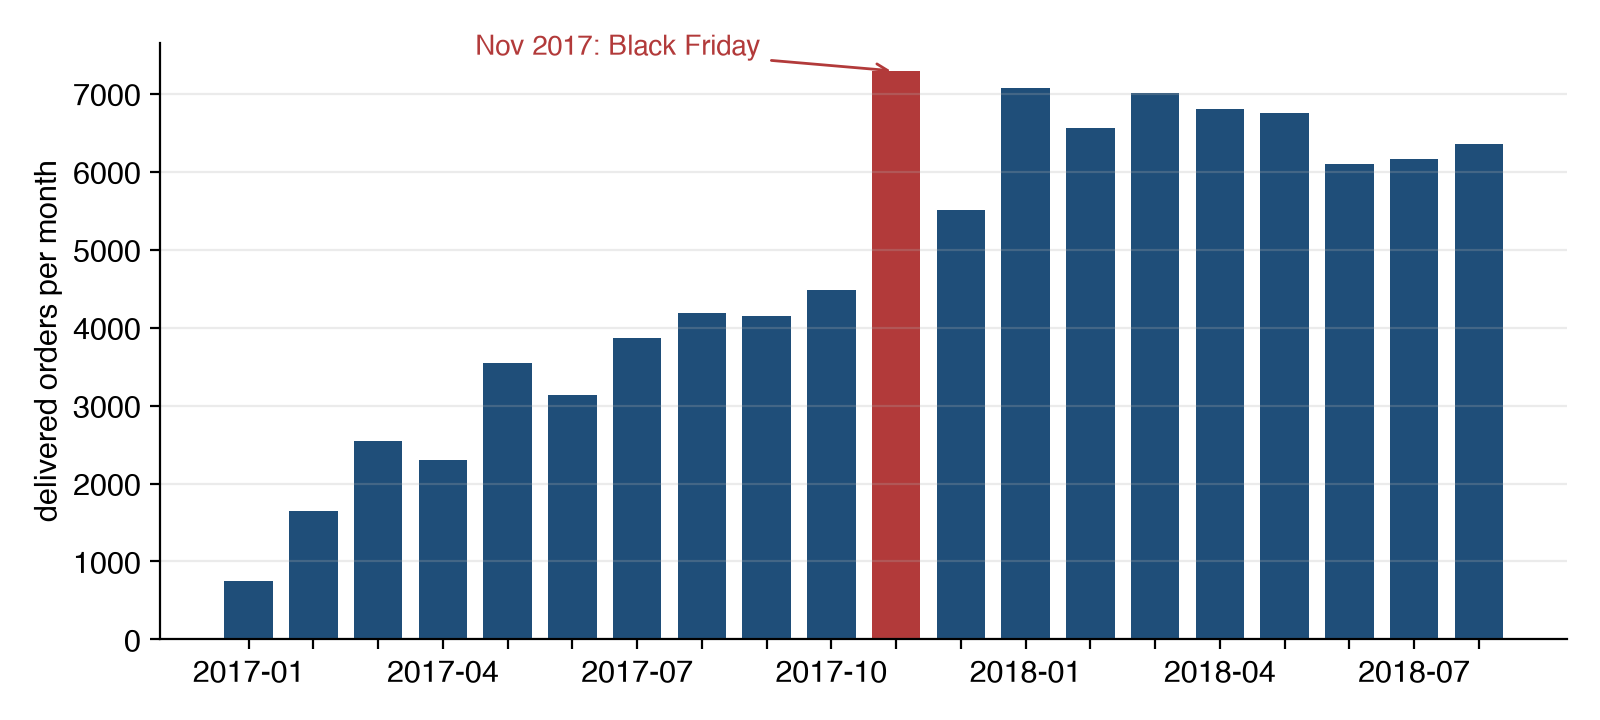
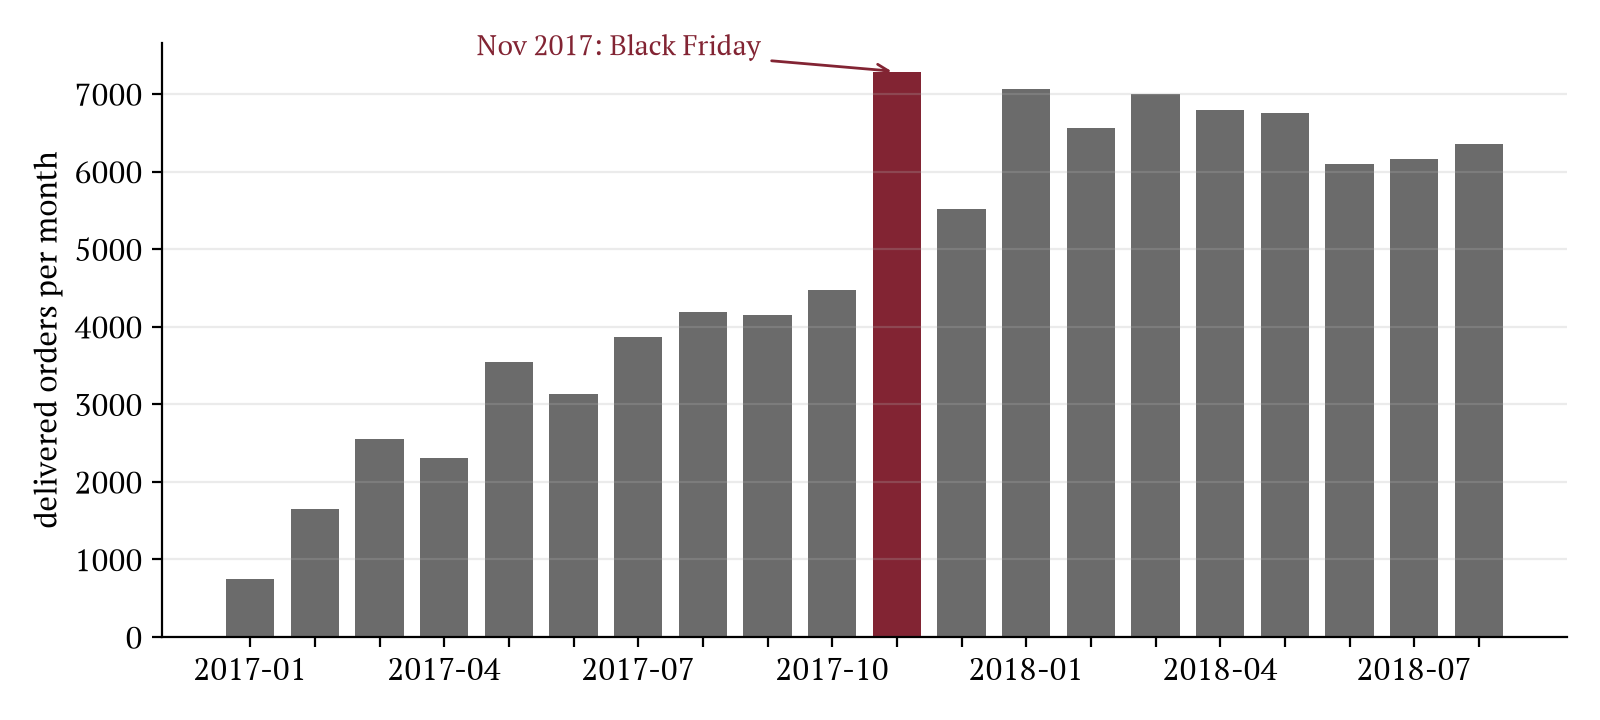
style(charts): Sapienza palette and PT Serif for the slide charts

diff --git a/scripts/make_charts.py b/scripts/make_charts.py
@@ -14,9 +14,10 @@ import psycopg
 
 OUT = Path(__file__).resolve().parent.parent / "docs" / "slides" / "img"
 OUT.mkdir(parents=True, exist_ok=True)
-ACCENT, GREY, RED = "#1f4e79", "#9aa5b1", "#b23a3a"
+# palette of the slides: grey for the bars, Sapienza burgundy for what the chart is about
+BASE, GREY, HIGHLIGHT = "#6b6b6b", "#bdbdbd", "#822433"
 
-plt.rcParams.update({"font.family": "Helvetica", "font.size": 11, "axes.spines.top": False,
+plt.rcParams.update({"font.family": "PT Serif", "font.size": 11, "axes.spines.top": False,
                      "axes.spines.right": False, "axes.grid": True, "grid.alpha": 0.25, "axes.grid.axis": "y"})
 
 
@@ -34,14 +35,14 @@ def monthly_orders(cur):
         GROUP BY 1 ORDER BY 1""")
     labels = [r[0] for r in data]
     values = [r[1] for r in data]
-    colors = [RED if l == "2017-11" else ACCENT for l in labels]
+    colors = [HIGHLIGHT if l == "2017-11" else BASE for l in labels]
     fig, ax = plt.subplots(figsize=(8, 3.6), dpi=200)
     ax.bar(labels, values, color=colors, width=0.75)
     ax.set_ylabel("delivered orders per month")
     ax.set_xticks(range(len(labels)))
     ax.set_xticklabels([l if l.endswith(("-01", "-04", "-07", "-10")) else "" for l in labels])
     ax.annotate("Nov 2017: Black Friday", xy=(labels.index("2017-11"), 7289), xytext=(labels.index("2017-11") - 6.5, 7500),
-                arrowprops=dict(arrowstyle="->", color=RED), color=RED, fontsize=10)
+                arrowprops=dict(arrowstyle="->", color=HIGHLIGHT), color=HIGHLIGHT, fontsize=10)
     fig.tight_layout()
     fig.savefig(OUT / "monthly_orders.png")
 
@@ -59,7 +60,7 @@ def review_by_delay(cur):
     avg = [float(r[2]) for r in data]
     one_star = [float(r[3]) for r in data]
     fig, ax = plt.subplots(figsize=(8, 3.6), dpi=200)
-    bars = ax.bar(labels, avg, color=[ACCENT if a >= 4 else RED for a in avg], width=0.65)
+    bars = ax.bar(labels, avg, color=[BASE if a >= 4 else HIGHLIGHT for a in avg], width=0.65)
     for b, a, o in zip(bars, avg, one_star):
         ax.text(b.get_x() + b.get_width() / 2, a + 0.08, f"{a:.2f}", ha="center", fontsize=10)
         ax.text(b.get_x() + b.get_width() / 2, 0.25, f"{o:.0f}% one-star", ha="center", fontsize=9, color="white")
@@ -85,7 +86,7 @@ def freight_by_distance(cur):
     series = {c: [next(float(r[3]) for r in data if r[0] == c and r[1] == b) for b in bands] for c in cats}
     fig, ax = plt.subplots(figsize=(8, 3.6), dpi=200)
     w = 0.2
-    palette = [ACCENT, "#4f81bd", GREY, "#c9d3dd"]
+    palette = [HIGHLIGHT, "#c07a85", BASE, GREY]
     for i, c in enumerate(cats):
         ax.bar([x + (i - 1.5) * w for x in range(len(bands))], series[c], width=w, label=c, color=palette[i])
     ax.set_xticks(range(len(bands)))
